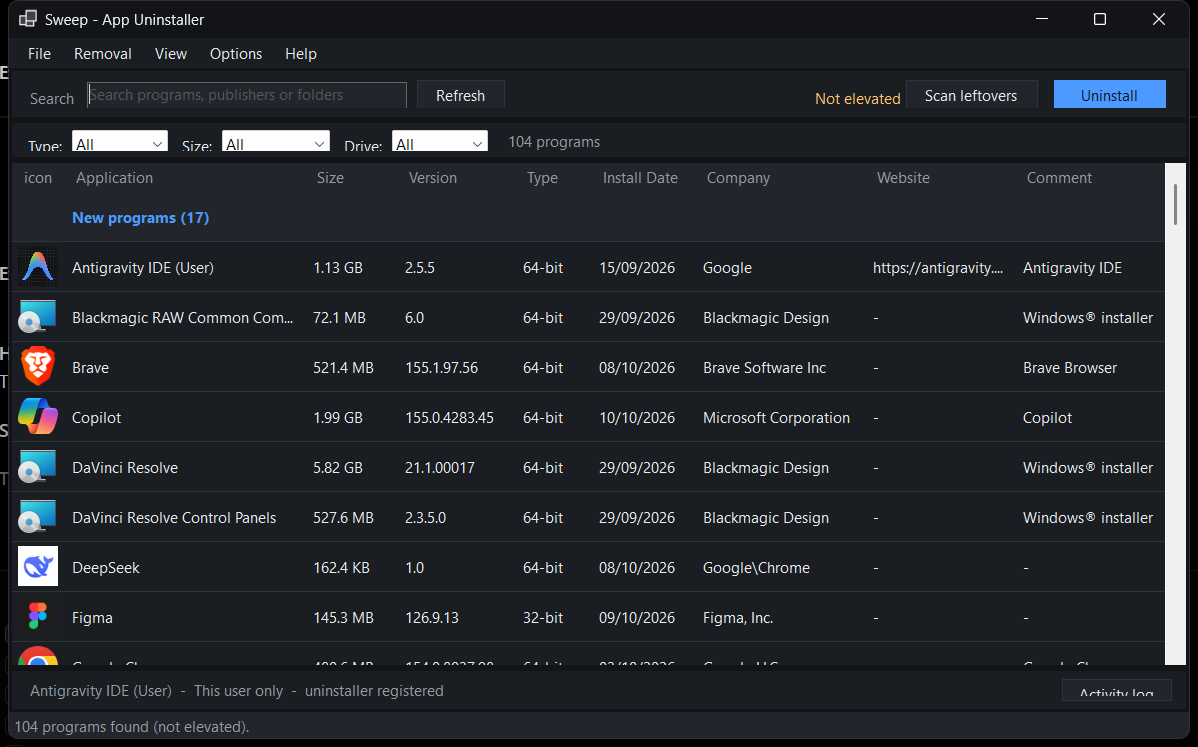
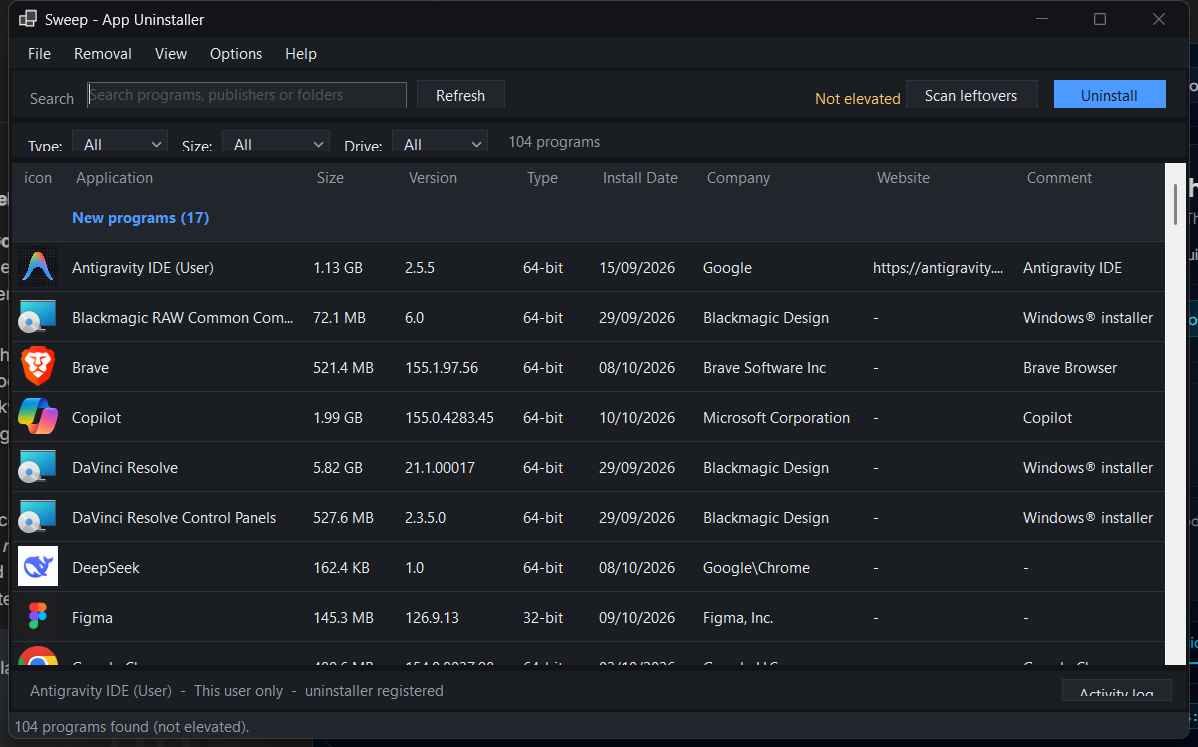
Theme the filter dropdowns instead of letting them render white
ComboBox ignores BackColor and ForeColor unless it draws itself, and on
Windows 11 the drop-down button is painted by the theme engine regardless -
so Type/Size/Drive came up as white boxes with black text against a dark
window. Setting DrawMode alone fixed the field but left a white block where
the arrow should be, so the control is now fully owner-drawn: fill, border,
text and chevron all come from the palette.

ThemedComboBox paints only the closed state; the open list keeps the native
popup and is filled by the DrawItem handler, so clicking the button still
drops the list exactly as before. Settings' theme picker had the same defect
and is now covered too. Both themes verified, light included.

diff --git a/ThemedComboBox.cs b/ThemedComboBox.cs
@@ -1,0 +1,89 @@
+using System.Drawing.Drawing2D;
+
+namespace Sweep;
+
+/// <summary>
+/// A ComboBox that paints itself entirely from the Sweep palette.
+///
+/// The stock control ignores BackColor and ForeColor: on Windows 11 its drop-down button is
+/// drawn by the theme engine regardless, which left the filter dropdowns as white blocks with
+/// black text against a dark window. Setting DrawMode alone fixes the field but not the button,
+/// so the control is switched to UserPaint and the whole surface - field, border, text and the
+/// chevron - is rendered here.
+///
+/// Only the open list is left to the base ComboBox; those items are painted by the DrawItem
+/// handler in <see cref="Theme.StyleComboBox"/>.
+/// </summary>
+internal sealed class ThemedComboBox : ComboBox
+{
+    private const int ButtonWidth = 22;
+
+    public ThemedComboBox()
+    {
+        SetStyle(
+            ControlStyles.UserPaint | ControlStyles.AllPaintingInWmPaint | ControlStyles.Opaque,
+            true);
+
+        DrawMode = DrawMode.OwnerDrawFixed;
+    }
+
+    /// <summary>Forces a repaint so a theme switch is reflected immediately.</summary>
+    public void RefreshTheme() => Invalidate(true);
+
+    protected override void OnPaint(PaintEventArgs e)
+    {
+        var g = e.Graphics;
+        var p = Theme.Current;
+
+        using (var fill = new SolidBrush(p.SurfaceAlt))
+        {
+            g.FillRectangle(fill, ClientRectangle);
+        }
+
+        using (var border = new Pen(p.Border))
+        {
+            g.DrawRectangle(border, 0, 0, Width - 1, Height - 1);
+        }
+
+        // The native control still owns mouse handling and the drop-down popup, so clicking
+        // the button still opens the list; only the pixels are ours.
+        string text = SelectedItem?.ToString() ?? Text;
+
+        var textArea = new Rectangle(8, 0, Math.Max(1, Width - ButtonWidth - 14), Height);
+        TextRenderer.DrawText(
+            g,
+            text,
+            Font,
+            textArea,
+            p.Text,
+            TextFormatFlags.VerticalCenter | TextFormatFlags.NoPrefix | TextFormatFlags.EndEllipsis);
+
+        DrawChevron(g, p);
+    }
+
+private void DrawChevron(Graphics g, Theme.Palette p)
+    {
+        int cy = Height / 2;
+        const int Wing = 4;
+
+        using var pen = new Pen(p.TextDim, 1.6f)
+        {
+            StartCap = LineCap.Round,
+            EndCap = LineCap.Round,
+            LineJoin = LineJoin.Round,
+        };
+
+        // Place the chevron inside the button strip the native control reserves.
+        var origin = new PointF(Width - ButtonWidth + (ButtonWidth / 2f) - 1, cy);
+
+        SmoothingMode previous = g.SmoothingMode;
+        g.SmoothingMode = SmoothingMode.AntiAlias;
+        g.DrawLines(pen,
+        [
+            new PointF(origin.X - Wing, origin.Y - 2),
+            new PointF(origin.X, origin.Y + 2),
+            new PointF(origin.X + Wing, origin.Y - 2),
+        ]);
+        g.SmoothingMode = previous;
+    }
+}

diff --git a/Theme.cs b/Theme.cs
@@ -137,6 +137,69 @@ internal static class Theme
         box.BorderStyle = BorderStyle.FixedSingle;
     }
 
+    /// <summary>
+    /// ComboBox is one of the few controls that ignores BackColor and ForeColor unless it
+    /// draws itself, so the filter dropdowns came up as white boxes with black text against
+    /// a dark window. Owner-drawing is the supported way to make them follow the palette.
+    /// </summary>
+    public static void StyleComboBox(ComboBox box, Palette p)
+    {
+        // DrawMode is sticky, and the handlers capture this palette, so re-theming has to
+        // drop the old subscription rather than stack another one on top of it.
+        box.DrawItem -= OnComboDrawItem;
+        box.DrawItem += OnComboDrawItem;
+
+        box.DrawMode = DrawMode.OwnerDrawFixed;
+        box.BackColor = p.SurfaceAlt;
+        box.ForeColor = p.Text;
+        box.FlatStyle = FlatStyle.Flat;
+
+        if (box is ThemedComboBox themed)
+        {
+            themed.RefreshTheme();
+        }
+    }
+
+    private static void OnComboDrawItem(object? sender, DrawItemEventArgs e)
+    {
+        if (sender is not ComboBox box)
+        {
+            return;
+        }
+
+        var p = Theme.Current;
+        bool selected = (e.State & DrawItemState.Selected) == DrawItemState.Selected;
+        bool hovered = (e.State & DrawItemState.ComboBoxEdit) == DrawItemState.ComboBoxEdit;
+
+        using var background = new SolidBrush(selected || hovered ? p.Selection : p.SurfaceAlt);
+
+        // The control relies entirely on this handler for its background, so an empty or
+        // out-of-range index still has to be painted over rather than skipped.
+        e.Graphics.FillRectangle(background, e.Bounds);
+
+        if (e.Index < 0 || e.Index >= box.Items.Count)
+        {
+            return;
+        }
+
+        using var foreground = new SolidBrush(selected || hovered ? p.Text : p.TextDim);
+        using var format = new StringFormat
+        {
+            LineAlignment = StringAlignment.Center,
+            FormatFlags = StringFormatFlags.NoWrap,
+            Trimming = StringTrimming.EllipsisCharacter,
+        };
+
+        string text = box.Items[e.Index]?.ToString() ?? string.Empty;
+        var textArea = new RectangleF(
+            e.Bounds.X + 6,
+            e.Bounds.Y,
+            Math.Max(1, e.Bounds.Width - 6 - SystemInformation.VerticalScrollBarWidth - 4),
+            e.Bounds.Height);
+
+        e.Graphics.DrawString(text, box.Font, foreground, textArea, format);
+    }
+
     /// <summary>Dark-aware renderer for menus and tool strips.</summary>
     public sealed class Renderer : ToolStripProfessionalRenderer
     {

diff --git a/MainForm.cs b/MainForm.cs
@@ -121,6 +121,13 @@ BuildMenu();
         Theme.StyleMenu(_menu, p);
         Theme.StyleTextBox(_search, p);
         Theme.ApplyToGrid(_grid, p);
+
+        // The filter dropdowns are owner-drawn, so they have to be restyled on a theme
+        // switch or they keep the colours of whichever palette was current at startup.
+        foreach (var box in new[] { _typeFilter, _sizeFilter, _driveFilter })
+        {
+            Theme.StyleComboBox(box, p);
+        }
         Theme.StyleButton(_uninstallButton, p, primary: true);
         Theme.StyleButton(_scanButton, p);
         _search.BackColor = p.SurfaceAlt;
@@ -323,8 +330,7 @@ private Control BuildToolbar()
 
         foreach (var box in new[] { _typeFilter, _sizeFilter, _driveFilter })
         {
-            box.BackColor = Theme.Current.SurfaceAlt;
-            box.ForeColor = Theme.Current.Text;
+            Theme.StyleComboBox(box, Theme.Current);
             box.Margin = new Padding(0, 1, 10, 0);
             box.SelectedIndexChanged += (_, _) => ApplyFilter();
         }
@@ -1027,9 +1033,9 @@ private void ApplyFilter()
         }
     }
 
-    private readonly ComboBox _typeFilter = new() { DropDownStyle = ComboBoxStyle.DropDownList, Width = 96 };
-    private readonly ComboBox _sizeFilter = new() { DropDownStyle = ComboBoxStyle.DropDownList, Width = 108 };
-    private readonly ComboBox _driveFilter = new() { DropDownStyle = ComboBoxStyle.DropDownList, Width = 96 };
+    private readonly ThemedComboBox _typeFilter = new() { DropDownStyle = ComboBoxStyle.DropDownList, Width = 96 };
+    private readonly ThemedComboBox _sizeFilter = new() { DropDownStyle = ComboBoxStyle.DropDownList, Width = 108 };
+    private readonly ThemedComboBox _driveFilter = new() { DropDownStyle = ComboBoxStyle.DropDownList, Width = 96 };
     private readonly Label _countLabel = new() { AutoSize = true };
     private readonly GroupIndex _groups = new() { Enabled = true };
     private bool _recentFirst = true;

diff --git a/SettingsForm.cs b/SettingsForm.cs
@@ -110,8 +110,7 @@ internal sealed class SettingsForm : ThemedForm
         AddSection("Appearance");
         _theme.Items.AddRange(["Dark", "Light"]);
         _theme.SelectedIndex = settings.Theme == ThemeMode.Dark ? 0 : 1;
-        _theme.BackColor = p.SurfaceAlt;
-        _theme.ForeColor = p.Text;
+        Theme.StyleComboBox(_theme, p);
         var themeLabel = new Label { Text = "Theme", ForeColor = p.Text, AutoSize = true, Anchor = AnchorStyles.Left };
         table.Controls.Add(themeLabel, 0, table.RowCount);
         table.Controls.Add(_theme, 1, table.RowCount);
